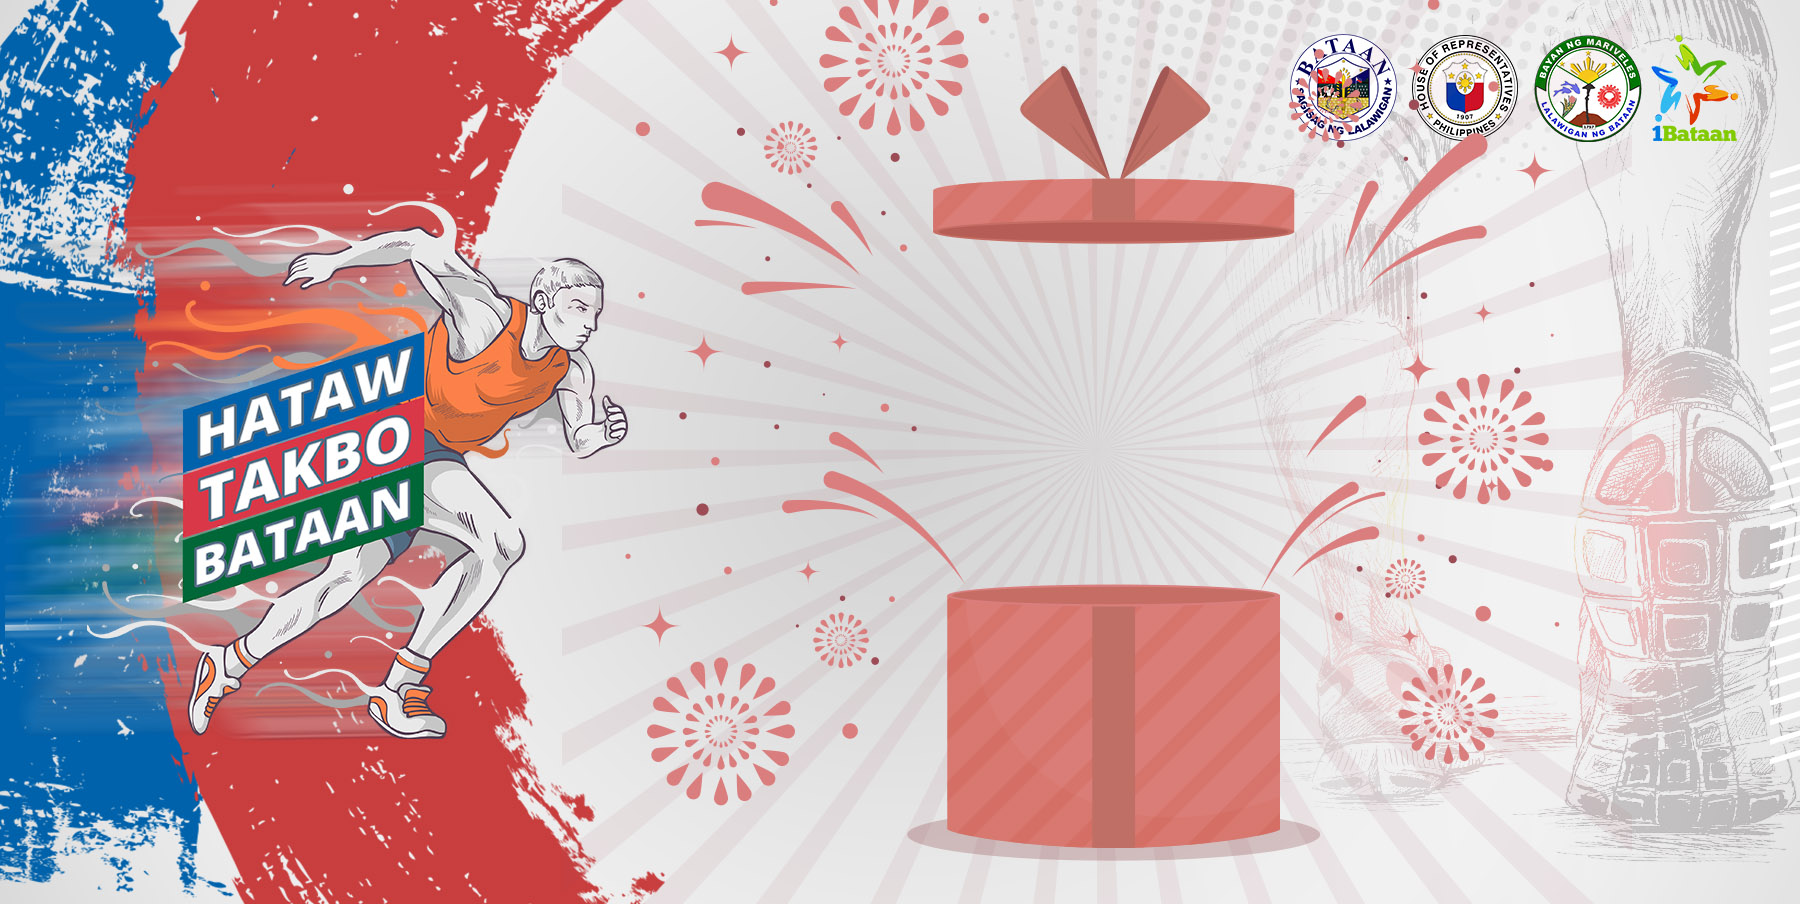
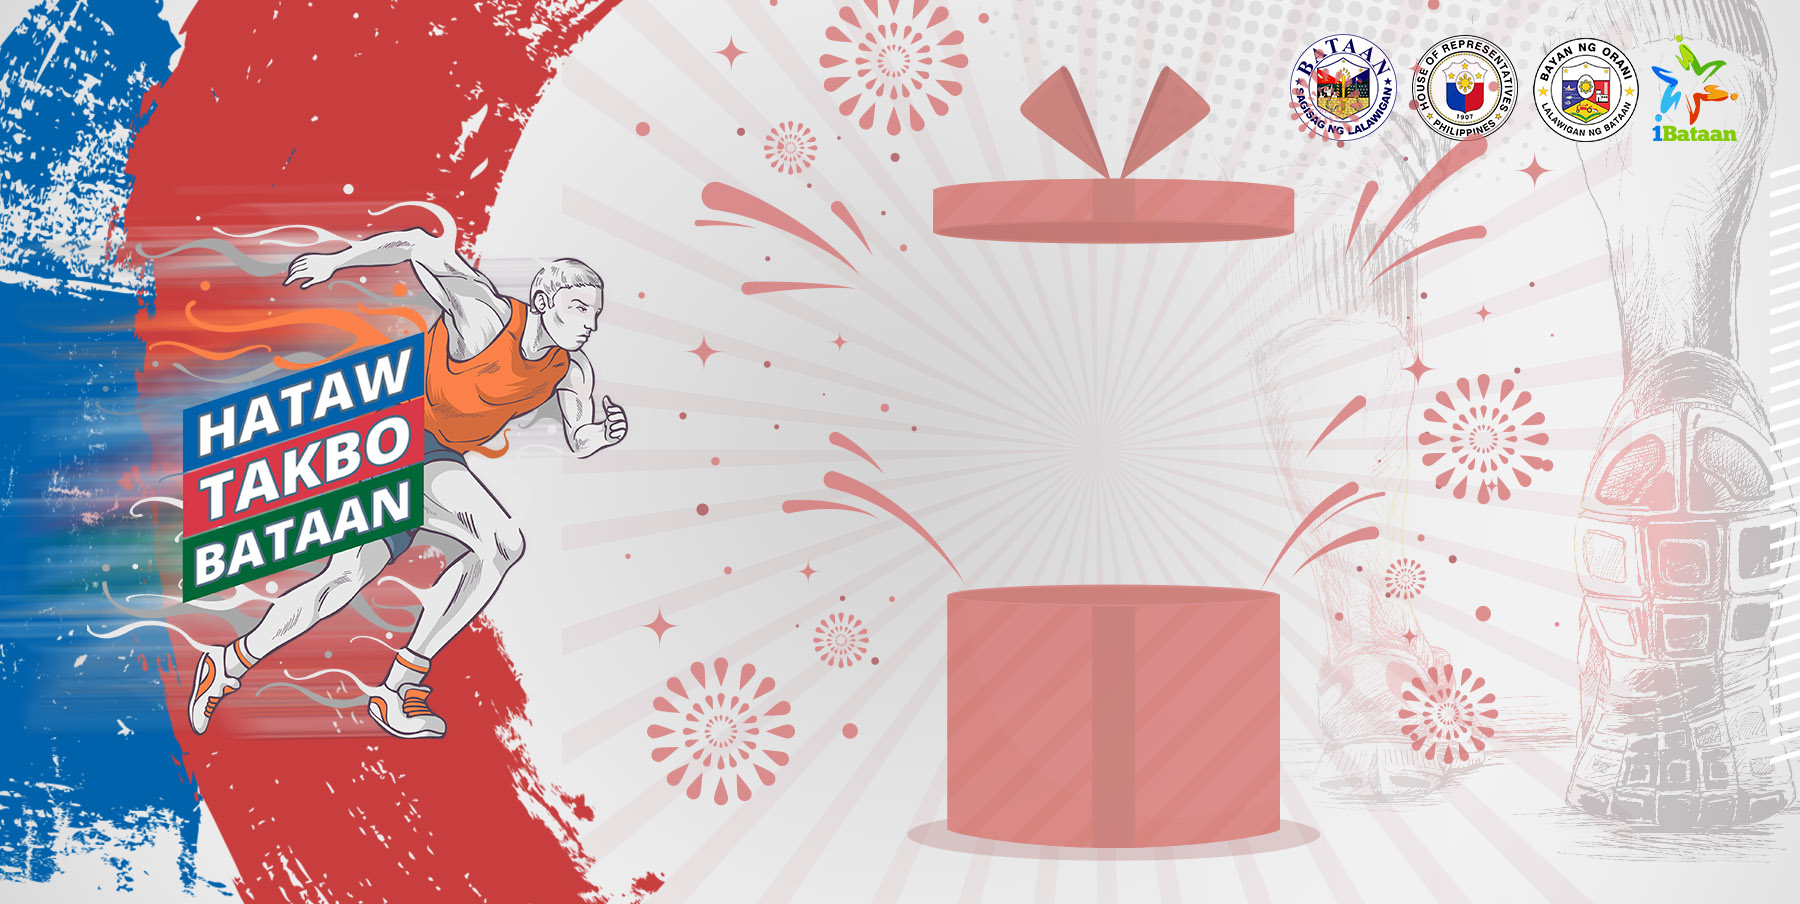
event setup for orani

diff --git a/src/pages/events/[eventId]/generate.tsx b/src/pages/events/[eventId]/generate.tsx
@@ -16,10 +16,8 @@ import html2canvas from "html2canvas";
 import HTBLogo from "../../../assets/hataw-takbo-bataan.webp";
 import OneBataanLogo from "../../../assets/1bataan.png";
 import SeekPhorLogo from "../../../assets/seekphor.png";
-// import HermosaLogo from "../../../assets/hermosa.png";
-import BagacLogo from "../../../assets/bagac-logo.png";
-import MarivelesLogo from "../../../assets/mariveles-logo.png";
 import BataanSealLogo from "../../../assets/bataan-seal.png";
+import OraniLogo from "../../../assets/orani-logo.png";
 
 const Generate: NextPage = () => {
   const { query } = useRouter();
@@ -137,14 +135,14 @@ const Generate: NextPage = () => {
             <Image src={SeekPhorLogo} alt="Seek Phor" className="" />
             <Image src={HTBLogo} alt="Hataw Takbo Bataan Logo" className="" />
             <Image src={OneBataanLogo} alt="One Bataan Logo" className="" />
-            <Image src={MarivelesLogo} alt="Hermosa Logo" className="" />
+            <Image src={OraniLogo} alt="Hermosa Logo" className="" />
             <Image src={HTBLogo} alt="Hataw Takbo Bataan Logo" className="" />
             <Image src={OneBataanLogo} alt="One Bataan Logo" className="" />
           </div>
 
           <div className="absolute left-[100px] mt-[45px] flex h-[40px] w-3/12 gap-2 opacity-10">
             <Image src={OneBataanLogo} alt="One Bataan Logo" className="" />
-            <Image src={MarivelesLogo} alt="Hermosa Logo" className="" />
+            <Image src={OraniLogo} alt="Hermosa Logo" className="" />
             <Image src={HTBLogo} alt="Hataw Takbo Bataan Logo" className="" />
             <Image src={OneBataanLogo} alt="One Bataan Logo" className="" />
             <Image src={BataanSealLogo} alt="Bataan Seal" className="" />
@@ -157,7 +155,7 @@ const Generate: NextPage = () => {
             <Image src={SeekPhorLogo} alt="Seek Phor" className="" />
             <Image src={HTBLogo} alt="Hataw Takbo Bataan Logo" className="" />
             <Image src={OneBataanLogo} alt="One Bataan Logo" className="" />
-            <Image src={MarivelesLogo} alt="Hermosa Logo" className="" />
+            <Image src={OraniLogo} alt="Hermosa Logo" className="" />
             <Image src={HTBLogo} alt="Hataw Takbo Bataan Logo" className="" />
             <Image src={OneBataanLogo} alt="One Bataan Logo" className="" />
           </div>
@@ -193,7 +191,7 @@ const Generate: NextPage = () => {
               className="z-10 col-span-1"
             />
             <Image
-              src={MarivelesLogo}
+              src={OraniLogo}
               alt="Hermosa Logo"
               width={150}
               className="z-10 col-span-1"

diff --git a/src/pages/index.tsx b/src/pages/index.tsx
@@ -19,9 +19,7 @@ import HTBLogo from "../assets/hataw-takbo-bataan.webp";
 import OneBataanLogo from "../assets/1bataan.png";
 import SeekPhorLogo from "../assets/seekphor.png";
 import BataanSealLogo from "../assets/bataan-seal.png";
-import HermosaLogo from "../assets/hermosa.png";
-import BagacLogo from "../assets/bagac-logo.png";
-import MarivelesLogo from "../assets/mariveles-logo.png";
+import OraniLogo from "../assets/orani-logo.png";
 
 import Alternative1 from "../assets/landing-page/alternative-1.jpg";
 import Alternative2 from "../assets/landing-page/alternative-2.jpg";
@@ -45,15 +43,13 @@ const Home: NextPage = () => {
         <ScreenContainer className="py:10 grid grid-cols-6 gap-14 sm:gap-0 sm:py-16">
           <div className="order-last col-span-6 mb-20  flex flex-col items-center justify-center sm:-order-1 sm:col-span-3 sm:mb-0">
             <div>
-              <h1 className="mb-2 text-3xl font-semibold sm:text-5xl">
-                Mariveles
-              </h1>
+              <h1 className="mb-2 text-3xl font-semibold sm:text-5xl">Orani</h1>
               <div className="mb-4 text-lg font-medium">
-                <p>Event Date: March 25, 2023</p>
-                <p>Mariveles</p>
+                <p>Event Date: April 22, 2023</p>
+                <p>Orani Plaza</p>
               </div>
               <p className="mb-4 text-sm">
-                *Free event t-shirt for first 2,000 registered participant
+                *Free event t-shirt for first 3,000 registered participant
               </p>
               <div className="grid grid-cols-2 gap-6">
                 {sessionData && (
@@ -118,7 +114,7 @@ const Home: NextPage = () => {
             className="col-span-2 mx-auto md:col-span-1"
           />
           <Image
-            src={MarivelesLogo}
+            src={OraniLogo}
             width={65}
             alt="Mariveles Logo"
             className="col-span-2 mx-auto md:col-span-1"
